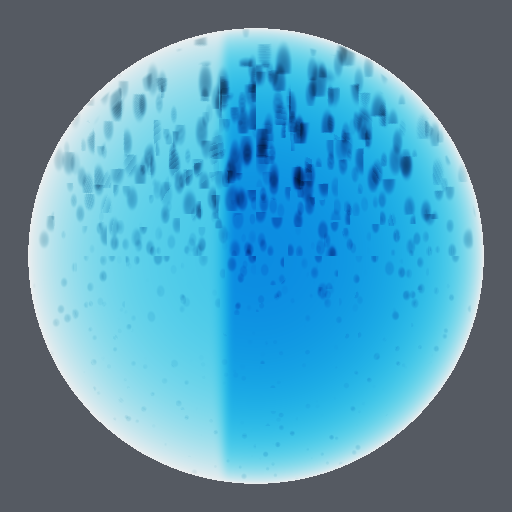
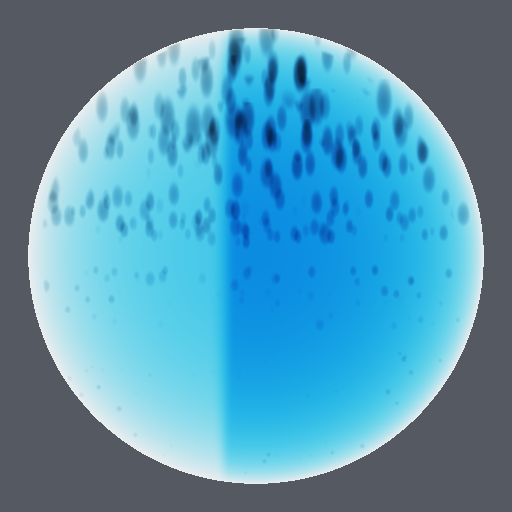
sucette : les carres venaient de MA grille, le grain du sous-echantillonnage
Il a zoome et vu ce que l image entiere cachait : des carres qui sautent, des
hachures dans les bulles. Deux defauts distincts, tous deux mesures avant
d etre corriges.

1. LES CARRES — une faute de conception, pas un phenomene.
Les bulles etaient semees dans une grille CUBIQUE de 0,155. Etiree par
l ecoulement, une bulle atteignait 0,124 de demi-longueur pour une
demi-cellule de 0,0775 : elle DEBORDAIT, donc elle etait tranchee net par les
faces du cube.

La regle qui en sort vaut pour tout champ seme sur une grille : une inclusion
ne doit JAMAIS pouvoir sortir de sa cellule, sinon la grille se voit. La
cellule s allonge donc comme les bulles (0,150 x 0,360 x 0,150), et le coeur
de cellule leur est reserve — les 20 % de bord sont interdits.

2. LE GRAIN — du crenelage d echantillonnage, le meme phenomene que les taches
de la nectarine a quatre pas, en plus fin. Mesure : 4,4 echantillons par
bulle la ou il en faut huit. Mon seuil de nettete etait quatre fois trop
permissif ; corrige, et les pas payes (96 -> 224).

3. ET UN GROS PLAN QUI SE RECALCULE, parce qu il juge en zoomant et qu il a
raison. Agrandir une image de 512 ne montre que ses pixels : ca invente des
defauts et en cache d autres. Le gros plan est la meme scene vue de plus pres,
a pleine resolution — c est lui qui a montre que les bulles etaient tranchees.

diff --git a/crates/aegis_engine/src/render/epaisseur.rs b/crates/aegis_engine/src/render/epaisseur.rs
@@ -1039,7 +1039,17 @@ mod tests {
         // pas que s'assombrir avec l'épaisseur, elle **vire** — cyan sur un trajet court, outremer
         // sur un trajet long. Trois nombres suffisent à dire ça.
         const SUCRE: [f32; 3] = [3.4, 1.15, 0.30];
-        const CELLULE: f32 = 0.155;
+        // ⚠⚠ LA CELLULE EST ANISOTROPE, ET C'EST UNE CORRECTION, PAS UN RÉGLAGE.
+        //
+        // La première version semait les bulles dans une grille CUBIQUE de 0,155. Une bulle étirée
+        // par l'écoulement atteignait 0,124 de demi-longueur pour une demi-cellule de 0,0775 :
+        // **elle débordait, donc elle était tranchée net par les faces du cube.** D'où les carrés
+        // qu'il a vus en zoomant — ce n'était pas un phénomène de rendu, c'était ma grille.
+        //
+        // *La règle qui en sort, et elle vaut pour tout champ semé sur une grille : une inclusion
+        // ne doit JAMAIS pouvoir sortir de sa cellule, sinon la grille se voit.* Ici la cellule
+        // s'allonge comme les bulles, ce qui est aussi ce que fait la matière étirée.
+        const CELLULE: [f32; 3] = [0.150, 0.360, 0.150];
 
         let champ = |p: Vec3, _depuis_la_surface: f32, dl: f32| -> Matiere {
             // ── Le feuillet de colorant, gelé par l'écoulement ───────────────────────────────
@@ -1057,16 +1067,19 @@ mod tests {
 
             // ── LES BULLES ───────────────────────────────────────────────────────────────────
             // Aucune n'est modélisée : on demande au point s'il est dans une.
-            let cx = (p.x / CELLULE).floor() as i32;
-            let cy = (p.y / CELLULE).floor() as i32;
-            let cz = (p.z / CELLULE).floor() as i32;
+            let cx = (p.x / CELLULE[0]).floor() as i32;
+            let cy = (p.y / CELLULE[1]).floor() as i32;
+            let cz = (p.z / CELLULE[2]).floor() as i32;
             let presence = alea(cx, cy, cz, 7);
 
-            if presence > 0.42 {
+            if presence > 0.18 {
+                // La bulle reste au CŒUR de sa cellule : les 20 % de bord lui sont interdits, ce
+                // qui garantit qu'elle ne peut pas la franchir même à sa taille maximale.
+                let place = |g: u32, axe: usize| (0.2 + 0.6 * alea(cx, cy, cz, g)) * CELLULE[axe];
                 let centre = Vec3::new(
-                    (cx as f32 + alea(cx, cy, cz, 11)) * CELLULE,
-                    (cy as f32 + alea(cx, cy, cz, 13)) * CELLULE,
-                    (cz as f32 + alea(cx, cy, cz, 17)) * CELLULE,
+                    cx as f32 * CELLULE[0] + place(11, 0),
+                    cy as f32 * CELLULE[1] + place(13, 1),
+                    cz as f32 * CELLULE[2] + place(17, 2),
                 );
                 // Stratification : les grosses remontent (poussée ∝ r³, frottement ∝ r), les fines
                 // restent piégées. Le haut est donc plus grossier que le bas.
@@ -1078,9 +1091,15 @@ mod tests {
                 let d = p - centre;
                 let d = Vec3::new(d.x, d.y / etirement, d.z);
 
-                // ⚠ Même règle que pour les fibres : une bulle plus fine que le pas ne s'échantillonne
-                // pas, elle se devine — donc elle s'efface au lieu de scintiller.
-                let nettete = fondu(rayon * 1.6, rayon * 0.5, dl);
+                // ⚠⚠ LE SECOND DÉFAUT QU'IL A VU : le grain, les hachures dans les bulles. Ce n'est
+                // pas la grille, c'est du **crénelage d'échantillonnage** — le même phénomène que
+                // les taches de la nectarine à quatre pas, en plus fin. Mesuré : 4,4 échantillons
+                // par bulle, là où il en faut au moins huit pour qu'une sphère cesse de scintiller.
+                //
+                // Mon seuil précédent (`rayon × 1,6`) était bien trop permissif : il laissait
+                // passer des bulles vues par quatre points. Celui-ci exige un pas quatre fois plus
+                // fin que le rayon — et à ce prix, il FAUT payer les pas.
+                let nettete = fondu(rayon * 0.55, rayon * 0.22, dl);
                 let dedans = fondu(rayon, rayon * 0.55, d.length()) * nettete;
 
                 // ⭐ **Une bulle n'est pas un trou : c'est un miroir.** Air (n = 1,0) dans du sucre
@@ -1119,7 +1138,7 @@ mod tests {
         let dossier = std::path::Path::new("target/preuves");
         std::fs::create_dir_all(dossier).expect("dossier");
 
-        let fine = integrer_le_champ(&carte, camera, direction, 96, champ);
+        let fine = integrer_le_champ(&carte, camera, direction, 224, champ);
         let image = peindre(&fine);
         std::fs::write(
             dossier.join("sucette.png"),
@@ -1128,7 +1147,7 @@ mod tests {
         .expect("ecriture");
 
         // Le même sucre SANS bulles : pour voir ce que le terme de source apporte, et le mesurer.
-        let sans = integrer_le_champ(&carte, camera, direction, 96, |p, d, dl| {
+        let sans = integrer_le_champ(&carte, camera, direction, 224, |p, d, dl| {
             let mut m = champ(p, d, dl);
             m.source = [0.0; 3];
             m
@@ -1137,6 +1156,50 @@ mod tests {
         std::fs::write(
             dossier.join("sucette-sans-bulles.png"),
             crate::image::png::encoder(cote as u32, cote as u32, &image_sans).expect("png"),
+        )
+        .expect("ecriture");
+
+        // ── LE GROS PLAN — parce qu'il juge en zoomant, et il a raison ────────────────────────
+        // ⚠ Agrandir une image de 512 ne montre que ses pixels ; ça donne l'illusion d'un défaut
+        // là où il n'y en a pas, et ça en cache d'autres. **Un gros plan se RECALCULE**, avec un
+        // champ de vision plus étroit — c'est la même scène, vue de plus près, à pleine résolution.
+        // *C'est ce qui a permis de voir que les bulles étaient tranchées par leur cellule.*
+        let fov_zoom = 9f32.to_radians();
+        let vue_zoom = Mat4::look_at_rh(camera, Vec3::new(-0.16, 0.36, 0.0), Vec3::new(0.0, 1.0, 0.0));
+        let carte_zoom = rendre(
+            &positions,
+            &indices,
+            Mat4::perspective_rh(fov_zoom, 1.0, 0.1, 100.0) * vue_zoom,
+            camera,
+            cote,
+            cote,
+        );
+        // La direction doit suivre la MÊME caméra : elle est tournée, donc ses axes le sont aussi.
+        let avant = (Vec3::new(-0.16, 0.36, 0.0) - camera).normalize();
+        let droite = avant.cross(Vec3::new(0.0, 1.0, 0.0)).normalize();
+        let dessus = droite.cross(avant).normalize();
+        let tan_zoom = (fov_zoom * 0.5).tan();
+        let direction_zoom = move |x: usize, y: usize| -> Vec3 {
+            let ndc_x = (x as f32 + 0.5) / cote as f32 * 2.0 - 1.0;
+            let ndc_y = 1.0 - (y as f32 + 0.5) / cote as f32 * 2.0;
+            (avant + droite * (ndc_x * tan_zoom) + dessus * (ndc_y * tan_zoom)).normalize()
+        };
+        let zoom = integrer_le_champ(&carte_zoom, camera, direction_zoom, 224, champ);
+        let mut rvb_zoom = vec![0u8; cote * cote * 3];
+        for i in 0..cote * cote {
+            for canal in 0..3 {
+                let lumiere = if carte_zoom.valeurs[i] > 0.0 {
+                    SOLEIL * zoom[i].transmittance[canal] + zoom[i].emise[canal]
+                } else {
+                    FOND[canal]
+                };
+                rvb_zoom[i * 3 + canal] =
+                    (((lumiere / (1.0 + lumiere)).powf(1.0 / 2.2)).clamp(0.0, 1.0) * 255.0) as u8;
+            }
+        }
+        std::fs::write(
+            dossier.join("sucette-gros-plan.png"),
+            crate::image::png::encoder(cote as u32, cote as u32, &rvb_zoom).expect("png"),
         )
         .expect("ecriture");
 
